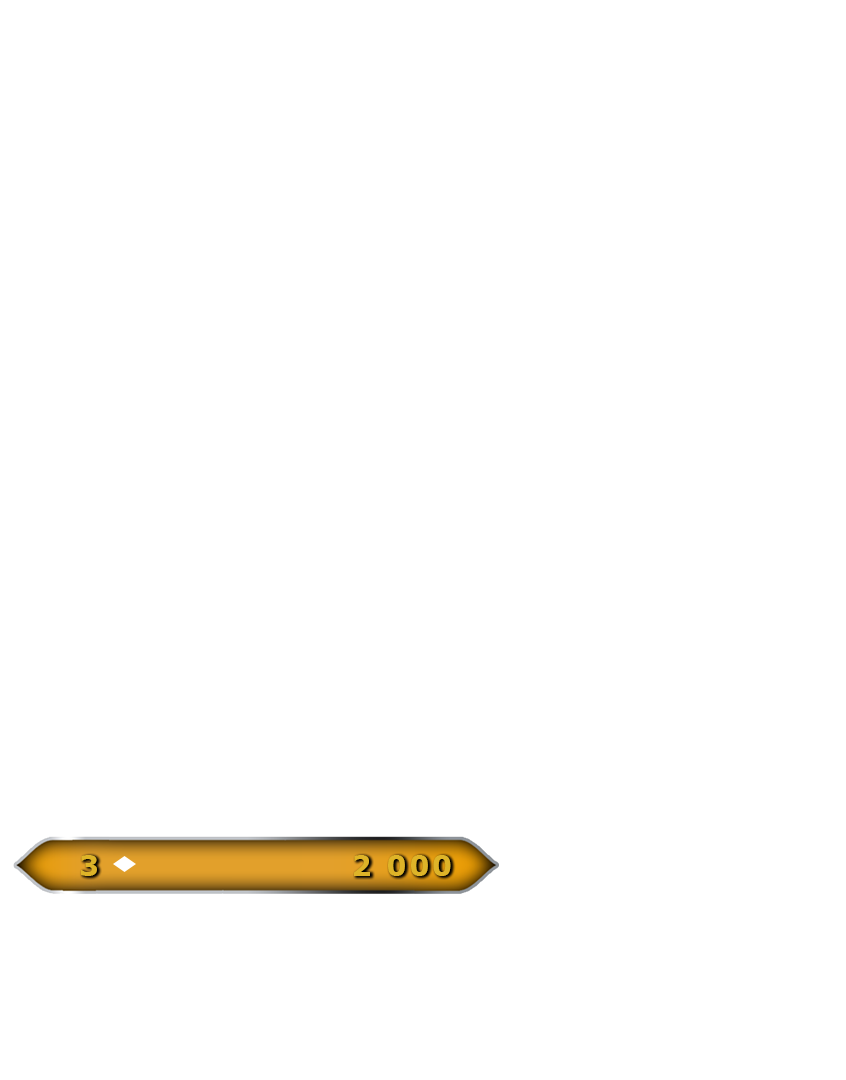
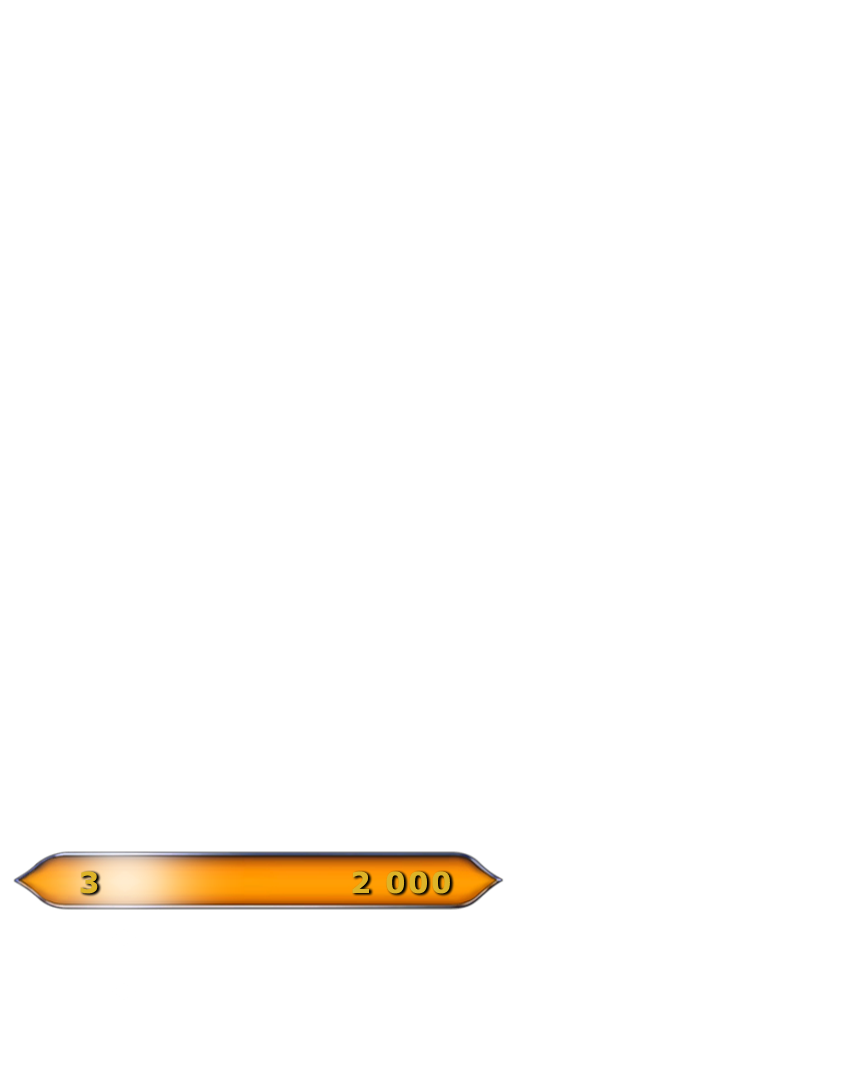
feat: add new backgrounds & full money tree reassembling
- Полностью пересобрали денежное дерево, а это значит, что:
- Внешнийвид подсказок стал лучше
- Пиктограмма «Забрать деньги» усовершенствована
- Улучшена подложка текущего вопроса на денежном дереве
- Добавлен новогодний фон денежного дерева (с 10 декабря по 20 января)
- Проапскейлили обычный и новогодний фоны

- Добавили ещё два новых игровых фона

- Теперь вся сборка ассетов ведётся в Figma. Денежное дерево с готовой реализации переписано на отдельные компоненты, которые можно заменять и редактировать. Это значит, что процесс создания нового дерева упрощается и есть возможность интернационализировать проект.

Changed region(s): [[0.0, 0.7639, 0.6147, 0.8556]]

diff --git a/core/game.py b/core/game.py
@@ -28,7 +28,7 @@ class GameWindow(QMainWindow, Ui_MainWindow):
         self.user_control = False  # реагирует ли игра на действия игрока
         self.name = name
         self.mode = mode
-        self.background_num = randint(1, 7)
+        self.background_num = randint(1, 9)
 
         self.hovered_answer = ''
         self.hovered_lifeline = ''
@@ -73,7 +73,11 @@ class GameWindow(QMainWindow, Ui_MainWindow):
         if not repeat:
             self.scheduler1.schedule(0, self.background_1.setPixmap, QPixmap(current_background))
 
-        self.date = datetime.today().strftime('%d.%m.%Y %H:%M')
+        date_raw = datetime.today()
+        self.date = date_raw.strftime('%d.%m.%Y %H:%M')
+        if date_raw.month == 12 and date_raw.day >= 10 or date_raw.month == 1 and date_raw.day <= 20:
+            self.layout_t.setPixmap(QPixmap('images/money tree/layout_christmas.png'))
+
         self.scheduler1.schedule(800, lambda: True)
 
         if repeat:
@@ -256,15 +260,15 @@ class GameWindow(QMainWindow, Ui_MainWindow):
         if event.key() in (Qt.Key.Key_S, 39, 1067, 1069):  # S, Ы, ', Э
             self.response_to_event(568, 653)  # эмулируем выбор ответа D
         if event.key() == Qt.Key.Key_1:
-            self.response_to_event(766, 66)  # эмулируем выбор «замены вопроса»
+            self.response_to_event(766, 43)  # эмулируем выбор «замены вопроса»
         if event.key() == Qt.Key.Key_2:
-            self.response_to_event(835, 66)  # эмулируем выбор 50:50
+            self.response_to_event(835, 43)  # эмулируем выбор 50:50
         if event.key() == Qt.Key.Key_3:
-            self.response_to_event(902, 66)  # эмулируем выбор «права на ошибку»
+            self.response_to_event(902, 43)  # эмулируем выбор «права на ошибку»
         if event.key() == Qt.Key.Key_4:
-            self.response_to_event(800, 100)  # эмулируем выбор «помощи зала»
+            self.response_to_event(800, 77)  # эмулируем выбор «помощи зала»
         if event.key() == Qt.Key.Key_5:
-            self.response_to_event(866, 100)  # эмулируем выбор «забрать деньги»
+            self.response_to_event(866, 77)  # эмулируем выбор «забрать деньги»
         if event.key() in (Qt.Key.Key_M, 1068):  # M, Ь
             self.is_sound = not self.is_sound  # переключаем звук
             self.sound_btn.setChecked(self.is_sound)
@@ -282,7 +286,7 @@ class GameWindow(QMainWindow, Ui_MainWindow):
         if not self.user_control:
             return
 
-        if all((866 <= x <= 916, 100 <= y <= 130, self.used_lifelines_counter < 4)):
+        if all((866 <= x <= 916, 77 <= y <= 107, self.used_lifelines_counter < 4)):
             self.show_selecting_lifeline('home')
             return
         elif not self.has_shown:
@@ -305,13 +309,13 @@ class GameWindow(QMainWindow, Ui_MainWindow):
         if self.used_lifelines_counter == 4:
             return
 
-        if 766 <= x <= 816 and 66 <= y <= 96:
+        if 766 <= x <= 816 and 43 <= y <= 73:
             self.show_selecting_lifeline('change')
-        elif 835 <= x <= 885 and 66 <= y <= 96:
+        elif 835 <= x <= 885 and 43 <= y <= 73:
             self.show_selecting_lifeline('5050')
-        elif 902 <= x <= 952 and 66 <= y <= 96:
+        elif 902 <= x <= 952 and 43 <= y <= 63:
             self.show_selecting_lifeline('x2')
-        elif 800 <= x <= 850 and 100 <= y <= 130:
+        elif 800 <= x <= 850 and 77 <= y <= 107:
             self.show_selecting_lifeline('ata')
         else:
             self.show_selecting_lifeline('')
@@ -353,7 +357,7 @@ class GameWindow(QMainWindow, Ui_MainWindow):
             self.show_answers()
 
         if all(
-            (self.user_control, 866 <= x <= 916, 100 <= y <= 130, self.used_lifelines_counter < 4)
+            (self.user_control, 866 <= x <= 916, 77 <= y <= 107, self.used_lifelines_counter < 4)
         ):  # забрать деньги
             self.open_confirm_leave()
 
@@ -383,19 +387,19 @@ class GameWindow(QMainWindow, Ui_MainWindow):
         if self.used_lifelines_counter == 4:
             return
 
-        if 766 <= x <= 816 and 66 <= y <= 96:
+        if 766 <= x <= 816 and 43 <= y <= 73:
             self.show_lost_lifeline(self.lost_change)
             self.use_lifeline('change')
-        elif 835 <= x <= 885 and 66 <= y <= 96:
+        elif 835 <= x <= 885 and 43 <= y <= 73:
             self.show_lost_lifeline(self.lost_5050)
             self.use_lifeline('50:50')
-        elif 902 <= x <= 952 and 66 <= y <= 96:
+        elif 902 <= x <= 952 and 43 <= y <= 73:
             self.show_lost_lifeline(self.lost_x2)
             if self.lifelines['x2']:
                 self.double_dip.show()
                 self.double_dip.startFadeInImage()
             self.use_lifeline('x2')
-        elif 800 <= x <= 850 and 100 <= y <= 130:
+        elif 800 <= x <= 850 and 77 <= y <= 107:
             self.show_lost_lifeline(self.lost_ata)
             self.use_lifeline('ata')
 
@@ -406,7 +410,7 @@ class GameWindow(QMainWindow, Ui_MainWindow):
         text = self.questions[self.current_question_num - 1][int(changer)][0]
         self.answers = list(map(str, self.questions[self.current_question_num - 1][int(changer)][2]))
         self.correct_answer = str(self.questions[self.current_question_num - 1][int(changer)][1])
-        print(self.correct_answer)  # HACK God mode
+        # print(self.correct_answer)  # HACK God mode
         self.got_amount = MONEYTREE_AMOUNTS[self.current_question_num - 1]
 
         self.question.setText(text)
